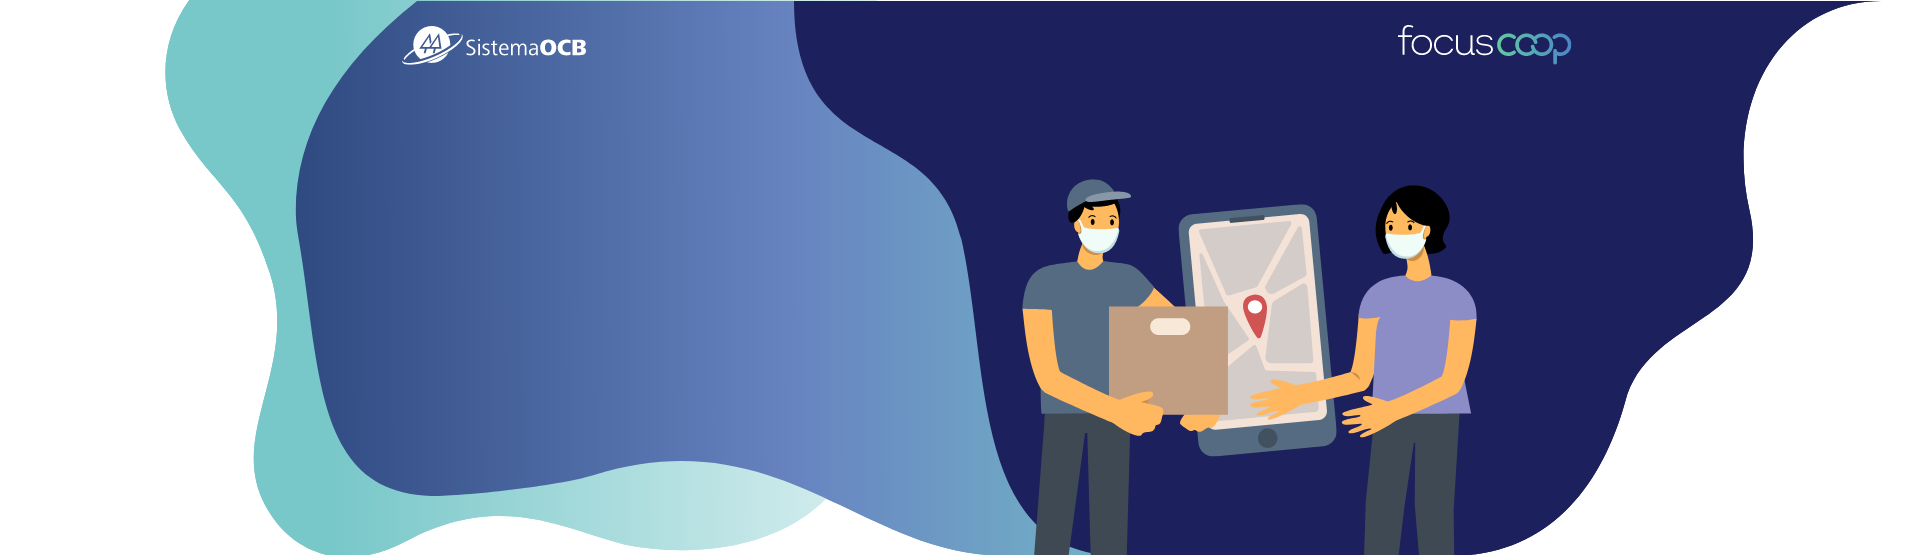
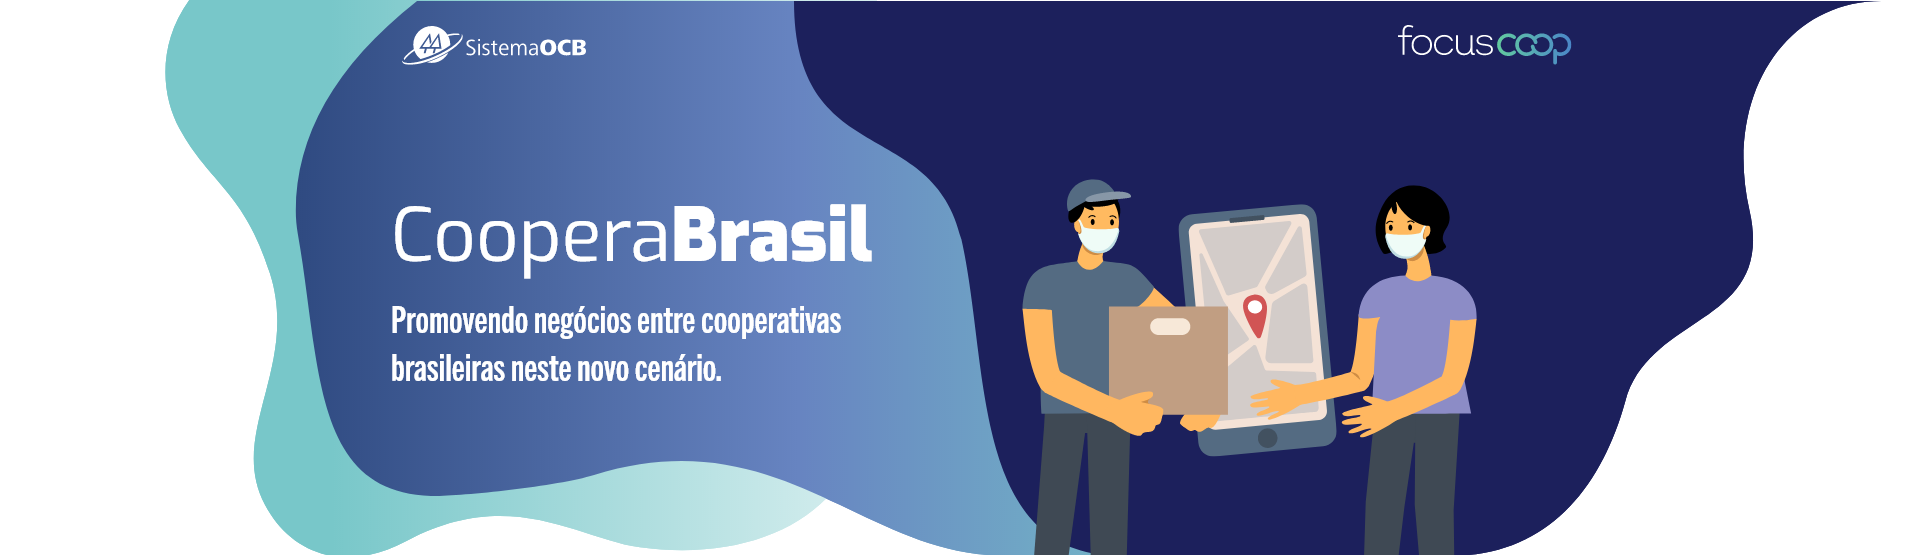
...

Changed region(s): [[0.1875, 0.3676, 0.4688, 0.4901], [0.1875, 0.5514, 0.4375, 0.6126], [0.1875, 0.6432, 0.375, 0.7045]]

diff --git a/resources/js/components/Home.vue b/resources/js/components/Home.vue
@@ -7,14 +7,14 @@
             <div class="div-geral-1">
                 <div class="container">
                     <div class="row">
-                        <div class="col l10 offset-l1 m12 s12">
+                        <div class="col s12">
                             <div class="row">
                                 <div class="col l12">
                                     <span class="span-pesquise">Filtro:</span>
                                 </div>
                             </div>
                             <div class="row inputs-resultado">
-                                <div class="col l3 m3 s6">
+                                <div class="col s6">
                                     <label for="estado" class="label">Selecione o seu estado</label>
                                     <select v-model="pesquisa.estado" name="estado" id="estado" class="browser-default"
                                             @change="getCidades()">
@@ -24,7 +24,7 @@
                                         </option>
                                     </select>
                                 </div>
-                                <div class="col l3 m3 s6">
+                                <div class="col s6">
                                     <label for="cidade" class="label">Selecione a sua cidade</label>
                                     <select name="cidade" id="cidade" class="browser-default" v-model="pesquisa.cidade">
                                         <option selected="selected" value="">...</option>
@@ -33,7 +33,7 @@
                                         </option>
                                     </select>
                                 </div>
-                                <div class="col l3 m3 s6">
+                                <div class="col s6 mt-1">
                                     <label for="ramo" class="label">Qual o ramo?</label>
                                     <select name="ramo" id="ramo" class="browser-default" v-model="pesquisa.ramo">
                                         <option selected="selected" value="">...</option>
@@ -41,7 +41,7 @@
                                         </option>
                                     </select>
                                 </div>
-                                <div class="col l3 m3 s6">
+                                <div class="col s6 mt-1">
                                     <label for="produto" class="label">Produto/serviço</label>
                                     <select name="produto" id="produto" class="browser-default"
                                             v-model="pesquisa.produto">
@@ -63,11 +63,11 @@
                         </div>
                     </div>
                     <div class="row">
-                        <div class="col l10 offset-l1 m12 s12">
+                        <div class="col s12">
                             <div class="row">
                                 <div class="col l8 m12 s12">
                                     <ul class="div-produto collapsible" v-if="resultado.data.length > 0">
-                                        <li v-for="result in resultado.data" >
+                                        <li v-for="result in resultado.data">
                                             <div class="row collapsible-header" style="padding: 0">
                                                 <div class="col s4 center-align">
                                                     <img :src="url_redirect('front/assets/images/sem-produto.svg')"
@@ -172,9 +172,9 @@
                                             </div>
                                         </li>
                                     </ul>
-                                  <div v-else>
-                                    <h6 class="center"> Nenhum resultado encontrado</h6>
-                                  </div>
+                                    <div v-else>
+                                        <h6 class="center"> Nenhum resultado encontrado</h6>
+                                    </div>
                                 </div>
                                 <div class="col l3 offset-l1 m12 s12">
                                     <span class="span-pesquise center-align">Não achou o que precisa?</span>
@@ -197,7 +197,7 @@
             </div>
             <div class="div-geral-1">
                 <div class="container">
-                    <div class="row">
+                    <div class="row align-items-center">
                         <div class="col l6 m6 s12">
                             <h2>O que é o<br> CooperaBrasil?</h2>
                         </div>
@@ -213,11 +213,11 @@
                                 de
                                 negócio.
                             </p>
-                            <a class="waves-effect waves-light btn orange btn-saibamais">SAIBA MAIS</a>
+                            <!--<a class="waves-effect waves-light btn orange btn-saibamais">SAIBA MAIS</a>-->
                         </div>
                     </div>
                     <hr class="divisor">
-                    <div class="row">
+                    <div class="row align-items-center">
                         <div class="col l6 m12 s12 hide-on-small-only">
                             <!--<img src="assets/images/mapa.svg" alt="">-->
                             <mapa @getCidades="getCidadesMapa" :estado="pesquisa.estado"></mapa>
@@ -270,8 +270,8 @@
                                 </div>
                                 <div class="col s12 align-items-center">
                                     <span class="numero">4</span>
-                                    <div class="div-select input-field">
-                                        <label for="produto" class="label">De qual produto/serviço você precisa?</label>
+                                    <div class="div-select">
+                                        <label for="produto" class="label">Produto/Serviço desejado</label>
                                         <select name="produto" id="produto" class="browser-default"
                                                 v-model="pesquisa.produto">
                                             <option selected="selected" value="">...</option>
@@ -317,12 +317,12 @@
                     ramo: '',
                     produto: ''
                 },
-              search: {
-                estado: '',
-                cidade: '',
-                ramo: '',
-                produto: ''
-              },
+                search: {
+                    estado: '',
+                    cidade: '',
+                    ramo: '',
+                    produto: ''
+                },
                 resultado: {}
             }
         },
@@ -330,7 +330,7 @@
         created() {
             this.getRamos();
             let self = this;
-            let resultadoLocal = JSON.parse(localStorage.getItem('resultado'));
+            /*let resultadoLocal = JSON.parse(localStorage.getItem('resultado'));
             let pesquisa = JSON.parse(localStorage.getItem('pesquisa'));
             if (pesquisa.estado) {
                 this.pesquisa = pesquisa;
@@ -341,7 +341,8 @@
             }
             if (resultadoLocal.data) {
                 this.resultado = resultadoLocal;
-            }
+            }*/
+
         },
         methods: {
             getCidades() {
@@ -368,10 +369,10 @@
             },
             buscar() {
 
-                    this.search.estado= this.pesquisa.estado;
-                    this.search.cidade= this.pesquisa.cidade;
-                    this.search.ramo= this.pesquisa.ramo;
-                    this.search.produto= this.pesquisa.produto;
+                this.search.estado = this.pesquisa.estado;
+                this.search.cidade = this.pesquisa.cidade;
+                this.search.ramo = this.pesquisa.ramo;
+                this.search.produto = this.pesquisa.produto;
 
                 let url = '/api/pesquisa?search=';
                 let attr = 0;
@@ -416,7 +417,7 @@
                     this.resultado = response.data.data;
 
                 }).finally(() => {
-                  $('.collapsible').collapsible();
+                    $('.collapsible').collapsible();
                 })
             }
         },

diff --git a/resources/js/components/Menu.vue b/resources/js/components/Menu.vue
@@ -4,7 +4,7 @@
             <div class="col l10 m8 s12 offset-l1 col-menu">
                 <div class="menu nav-wrapper">
                     <div class="row mb-0 align-items-center">
-                        <div class="col l8">
+                        <div class="col s12">
                             <ul class="left-align">
                                 <li><a href="#" @click="inicio">Início</a></li>
                                 <!--<li>Sobre</li>
@@ -12,12 +12,12 @@
                                 <li>Contato</li>
                             </ul>
                         </div>
-                        <div class="col l4">
+                        <!--<div class="col l4">
                             <div class="area-cadastrar">
                                 <span>É uma Cooperativa?</span>
                                 <a href="#">Cadastre-se</a>
                             </div>
-                        </div>
+                        </div>-->
                     </div>
                 </div>
                 <div class="menu-mobile">
@@ -29,22 +29,14 @@
                             <li>Pesquisar</li>-->
                             <li style="border-bottom: unset">Contato</li>
                         </ul>
-                        <p style="text-align: center; font-size: 1rem; text-transform: initial;" class="mb-0">
+                        <!--<p style="text-align: center; font-size: 1rem; text-transform: initial;" class="mb-0">
                             É uma cooperativa? <br>
                             <a href="#" class="btn-small btn-cadastre-mobile">CADASTRE-SE</a>
-                        </p>
+                        </p>-->
                     </div>
                     <a href="#" data-target="slide-out" class="sidenav-trigger" style="float: right"><i
                             class="material-icons menu-icon">menu</i></a>
                 </div>
-            </div>
-        </div>
-        <div class="row">
-            <div class="col l5 m5 s12 col-titulo">
-                <h1 class="titulo">Coopera<strong>Brasil</strong></h1>
-                <p class="proposta">
-                    Promovendo negócios entre cooperativas brasileiras neste novo cenário.
-                </p>
             </div>
         </div>
     </div>

diff --git a/public/front/assets/css/style.css b/public/front/assets/css/style.css
@@ -233,6 +233,7 @@ h2 {
     font-size: 2rem;
     color: #1C205C;
     font-weight: 600;
+    line-height: 1
 }
 
 .numero {
@@ -597,5 +598,34 @@ option {
 
     #map {
         zoom: 75%;
+    }
+}
+
+@media (max-width: 1180px) {
+    #map {
+        zoom: 70%
+    }
+}
+
+@media (max-width: 1300px) {
+    .menu {
+        margin: 4rem 0 2rem;
+    }
+
+    .geral-header {
+        height: 35vw;
+    }
+
+    h2 {
+        padding: 0;
+        font-size: 3rem;
+    }
+
+    .sobre {
+        padding: 0;
+    }
+
+    #map {
+        zoom: 85%;
     }
 }
